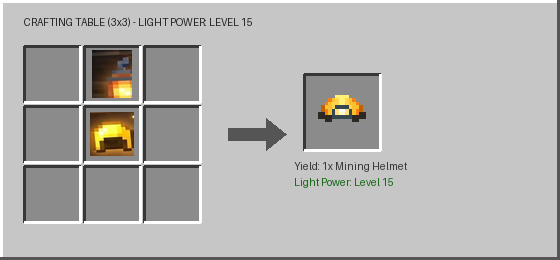
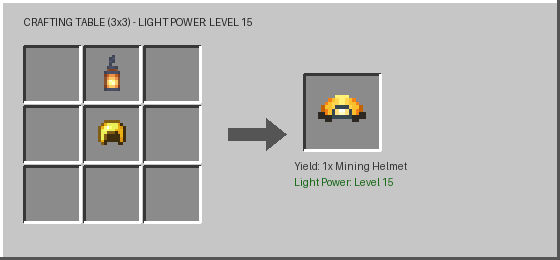
feat: add mojang-bedrock-samples skill and regenerate crafting recipe images using official resource pack textures

Changed region(s): [[0.1518, 0.1846, 0.2429, 0.4], [0.1518, 0.4308, 0.2429, 0.6154]]

diff --git a/.agents/skills/mojang-bedrock-samples/SKILL.md b/.agents/skills/mojang-bedrock-samples/SKILL.md
@@ -1,0 +1,70 @@
+---
+name: mojang-bedrock-samples
+description: >-
+  Reference and automation guide for using Mojang's official Bedrock Samples repository
+  (https://github.com/mojang/bedrock-samples) to extract vanilla resource pack textures,
+  reference vanilla JSON definitions, and generate authentic crafting UI images.
+---
+
+# Mojang Bedrock Samples Skill
+
+This skill provides direct guidelines and workflows for leveraging Mojang's official [bedrock-samples repository](https://github.com/mojang/bedrock-samples) across all Minecraft Bedrock add-ons and documentation in this repository.
+
+---
+
+## 1. Overview of Bedrock Samples
+
+The official repository `https://github.com/mojang/bedrock-samples` contains the upstream vanilla Minecraft Bedrock data and assets updated with every release:
+
+- **`resource_pack/`**: Complete vanilla client assets:
+  - `textures/items/`: Item icons (e.g., `gold_helmet.png`, `lantern.png`, `iron_ingot.png`).
+  - `textures/blocks/`: Block textures and placeable items (e.g., `torch_on.png`, `soul_torch.png`, `crafting_table_top.png`).
+  - `textures/models/armor/`: Humanoid armor layer textures (64x32 / 64x64).
+  - `attachables/`: Entity attachable JSON definitions for wearable items.
+  - `texts/`: Official localized language strings (`en_US.lang`).
+- **`behavior_pack/`**: Complete vanilla server/data definitions:
+  - `items/`: Vanilla item components and schemas.
+  - `entities/`: Base entity behaviors, components, and component groups.
+  - `recipes/`: Standard vanilla shaped, shapeless, and furnace recipe schemas.
+  - `loot_tables/`: Vanilla drop probabilities and equipment pools.
+
+---
+
+## 2. Using Official Resource Pack Textures in Crafting UI Images
+
+When generating 3x3 crafting grid images for `README.md` files or platform documentation, always source vanilla ingredient textures directly from `bedrock-samples/resource_pack/`:
+
+### Standard Texture Paths
+| Ingredient | Path in bedrock-samples |
+| :--- | :--- |
+| Golden Helmet | `resource_pack/textures/items/gold_helmet.png` |
+| Lantern | `resource_pack/textures/items/lantern.png` |
+| Torch | `resource_pack/textures/blocks/torch_on.png` |
+| Soul Lantern | `resource_pack/textures/items/soul_lantern.png` |
+| Soul Torch | `resource_pack/textures/blocks/soul_torch.png` |
+| Iron Ingot | `resource_pack/textures/items/iron_ingot.png` |
+| Gold Ingot | `resource_pack/textures/items/gold_ingot.png` |
+| Diamond | `resource_pack/textures/items/diamond.png` |
+| Redstone | `resource_pack/textures/items/redstone_dust.png` |
+
+### Python Generation Workflow
+Always scale vanilla 16x16 pixel textures using nearest-neighbor interpolation (`Image.Resampling.NEAREST`) to prevent blurring and preserve authentic pixel art:
+
+```python
+from PIL import Image
+
+# Load official vanilla item texture
+vanilla_icon = Image.open('resource_pack/textures/items/gold_helmet.png').convert('RGBA')
+
+# Nearest-neighbor upscale into crafting slot
+slot_size = (44, 44)
+pixel_scaled = vanilla_icon.resize(slot_size, Image.Resampling.NEAREST)
+```
+
+---
+
+## 3. Best Practices for Add-on Development
+
+1. **Vanilla Parity:** Inspect vanilla recipes in `behavior_pack/recipes/` to match formatting version, group tags, and ingredient identifiers.
+2. **Durability and Defense:** Match armor values to vanilla benchmarks in `behavior_pack/items/` (e.g., Gold helmet = 2 protection, 165 durability; Iron helmet = 2 protection, 165 durability; Diamond helmet = 3 protection, 363 durability).
+3. **Texture Sourcing:** Never draw placeholder textures for vanilla items when generating promotional materials; always pull directly from `bedrock-samples`.
